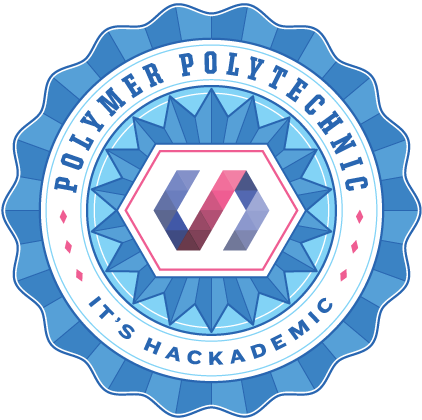
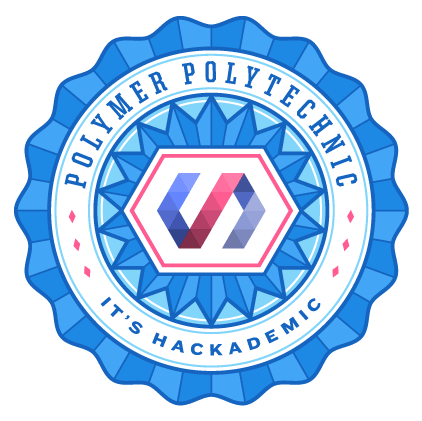
added footer links, updated badge, register link, and date

diff --git a/static/css/main.css b/static/css/main.css
@@ -1,1 +1,1 @@
-body{margin:0;background-color:#eff2f3;background-image:url("../images/bg1.png");background-size:30px 17.25px;background-position:center}header{text-align:center;margin-bottom:48px}header a{background-color:#fff;display:inline-block;box-shadow:0px 0px 8px rgba(0,0,0,0.1)}header a:hover .polymer-logo{opacity:0.7}header a .polymer-logo{display:block;width:90px;padding:12px;-webkit-transition:opacity 100ms;transition:opacity 100ms}.badge-section{position:relative;background-color:#445963;background-image:url("../images/bg2.png");background-size:cover;text-align:center}.badge-section::before,.badge-section::after{content:"";position:absolute;left:0;right:0;border-bottom:1px solid #fff}.badge-section::before{top:8px}.badge-section::after{bottom:8px}#badge{width:280px;height:auto;margin:48px 0}.date-section{margin-top:56px;text-align:center}.date-section span{display:inline-block;background-color:#41a4f4;box-shadow:0px 0px 8px rgba(0,0,0,0.1)}.date-section span .date{padding:16px;display:block;width:360px}footer{margin-top:48px;text-align:center;background:#fff;box-shadow:0px 0px 8px rgba(0,0,0,0.1)}footer ul{list-style:none;margin:0}footer li{display:inline-block;padding:24px;line-height:27px;vertical-align:middle}footer li a{display:block;width:27px;height:27px;position:relative}footer li a:hover img{opacity:0.7}footer li img{position:absolute;top:50%;left:50%;-webkit-transform:translate(-50%, -50%);-ms-transform:translate(-50%, -50%);transform:translate(-50%, -50%);-webkit-transition:opacity 100ms;transition:opacity 100ms}@media (min-width: 1480px){header a .polymer-logo{width:120px;padding:12px}#badge{width:360px;margin:72px 0}.date-section{margin-top:72px}.date-section span .date{padding:24px;width:480px}footer li{padding:24px;line-height:40px}footer li a{width:40px;height:40px}}@media (min-height: 720px){footer{position:fixed;bottom:0;left:0;right:0}}@media (-webkit-min-device-pixel-ratio: 1.25), (min-resolution: 120dppx){.badge-section{background-image:url("../images/bg2@2x.png");background-size:cover}}
+body{margin:0;background-color:#eff2f3;background-image:url("../images/bg1.png");background-size:30px 17.25px;background-position:center}header{text-align:center;margin-bottom:48px}header a{background-color:white;display:inline-block;box-shadow:0px 0px 8px rgba(0,0,0,0.1)}header a:hover .polymer-logo{opacity:0.7}header a .polymer-logo{display:block;width:90px;padding:12px;-webkit-transition:opacity 100ms;transition:opacity 100ms}.badge-section{position:relative;background-color:#445963;background-image:url("../images/bg2.png");background-size:cover;background-position:center;text-align:center}.badge-section::before,.badge-section::after{content:"";position:absolute;left:0;right:0;border-bottom:1px solid #fff}.badge-section::before{top:8px}.badge-section::after{bottom:8px}#badge{width:280px;height:auto;margin:48px 0 12px;position:relative;z-index:2}.badge-shadow{display:block;width:240px;height:240px;position:absolute;top:68px;left:50%;margin-left:-120px;border-radius:50%;box-shadow:0px 0px 20px 10px rgba(0,0,0,0.2);z-index:1}.date{margin:0 auto;padding-bottom:48px;display:block;width:200px;height:auto}.register-section{margin-top:56px;text-align:center}.register-section a{display:inline-block;background-color:#41a4f4;box-shadow:0px 0px 8px rgba(0,0,0,0.1)}.register-section a:hover{background-color:#5eb2f6}.register-section a .register{padding:24px 36px;display:block;width:280px}footer{margin-top:48px;text-align:center;background:white;box-shadow:0px 0px 8px rgba(0,0,0,0.1)}footer ul{list-style:none;margin:0}footer li{display:inline-block;padding:24px;line-height:27px;vertical-align:middle}footer li a{display:block;width:27px;height:27px;position:relative}footer li a:hover img{opacity:0.7}footer li img{position:absolute;top:50%;left:50%;-webkit-transform:translate(-50%, -50%);-ms-transform:translate(-50%, -50%);transform:translate(-50%, -50%);-webkit-transition:opacity 100ms;transition:opacity 100ms}@media (min-width: 1480px){header a .polymer-logo{width:120px;padding:12px}#badge{width:360px;margin:72px 0 24px}.badge-shadow{width:310px;height:310px;top:100px;margin-left:-155px}.date{padding-bottom:72px;width:300px}.register-section{margin-top:72px}.register-section a .register{padding:24px 48px;width:380px}footer li{padding:24px;line-height:40px}footer li a{width:40px;height:40px}}@media (min-height: 720px){footer{position:fixed;bottom:0;left:0;right:0}}@media (-webkit-min-device-pixel-ratio: 1.25), (min-resolution: 120dppx){.badge-section{background-image:url("../images/bg2@2x.png");background-size:cover}}

diff --git a/src/main.scss b/src/main.scss
@@ -1,0 +1,202 @@
+@mixin box-shadow() {
+  box-shadow: 0px 0px 8px rgba(0,0,0,0.1);
+}
+
+$body-bg: #eff2f3;
+$badge-bg: #445963;
+$date-bg: #41a4f4;
+$white: #fff;
+
+body {
+  margin: 0;
+  background-color: $body-bg;
+  background-image: url("../images/bg1.png");
+  background-size: 30px 17.25px;
+  background-position: center;
+}
+
+header {
+  text-align: center;
+  margin-bottom: 48px;
+  a {
+    background-color: white;
+    display: inline-block;
+    @include box-shadow;
+    &:hover {
+      .polymer-logo {
+        opacity: 0.7;
+      }
+    }
+    .polymer-logo {
+      display: block;
+      width: 90px;
+      padding: 12px;
+      transition: opacity 100ms;
+    }
+  }
+}
+
+.badge-section {
+  position: relative;
+  background-color: $badge-bg;
+  background-image: url("../images/bg2.png");
+  background-size: cover;
+  background-position: center;
+  text-align: center;
+  &::before, &::after {
+    content: "";
+    position: absolute;
+    left: 0;
+    right: 0;
+    border-bottom: 1px solid $white;
+  }
+  &::before {
+    top: 8px;
+  }
+  &::after {
+    bottom: 8px;
+  }
+}
+
+#badge {
+  width: 280px;
+  height: auto;
+  margin: 48px 0 12px;
+  position: relative;
+  z-index: 2;
+}
+
+.badge-shadow {
+  display: block;
+  width: 240px;
+  height: 240px;
+  position: absolute;
+  top: 68px;
+  left: 50%;
+  margin-left: -120px;
+  border-radius: 50%;
+  box-shadow: 0px 0px 20px 10px rgba(0,0,0,0.2);
+  z-index: 1;
+}
+
+.date {
+  margin: 0 auto;
+  padding-bottom:48px;
+  display: block;
+  width: 200px;
+  height: auto;
+}
+
+.register-section {
+  margin-top: 56px;
+  text-align: center;
+  a {
+    display: inline-block;
+    background-color: $date-bg;
+    @include box-shadow;
+    &:hover {
+      background-color: lighten($date-bg, 6%);
+    }
+    .register {
+      padding: 24px 36px;
+      display: block;
+      width: 280px;
+    }
+  }
+}
+
+footer {
+  margin-top: 48px;
+  text-align: center;
+  background: white;
+  @include box-shadow;
+  ul {
+    list-style: none;
+    margin: 0;
+  }
+  li {
+    display: inline-block;
+    padding: 24px;
+    line-height: 27px;
+    vertical-align: middle;
+    a {
+      display: block;
+      width: 27px;
+      height: 27px;
+      position: relative;
+      &:hover {
+        img {
+          opacity: 0.7;
+        }
+      }
+    }
+    img {
+      position: absolute;
+      top: 50%;
+      left: 50%;
+      transform: translate(-50%, -50%);
+      transition: opacity 100ms;
+    }
+  }
+}
+
+@media (min-width: 1480px) {
+  header {
+    a {
+      .polymer-logo {
+        width: 120px;
+        padding: 12px;
+      }
+    }
+  }
+  #badge {
+    width: 360px;
+    margin: 72px 0 24px;
+  }
+  .badge-shadow {
+    width: 310px;
+    height: 310px;
+    top: 100px;
+    margin-left: -155px;
+  }
+
+  .date {
+    padding-bottom: 72px;
+    width: 300px;
+  }
+  .register-section {
+    margin-top: 72px;
+    a {
+      .register {
+        padding: 24px 48px;
+        width: 380px;
+      }
+    }
+  }
+  footer {
+    li {
+      padding: 24px;
+      line-height: 40px;
+      a {
+        width: 40px;
+        height: 40px;
+      }
+    }
+  }
+}
+
+@media (min-height: 720px) {
+  footer {
+    position: fixed;
+    bottom: 0;
+    left: 0;
+    right: 0;
+  }
+}
+
+@media (-webkit-min-device-pixel-ratio: 1.25), (min-resolution: 120dppx) {
+  .badge-section {
+    background-image: url("../images/bg2@2x.png");
+    background-size: cover;
+  }
+}

diff --git a/static/index.html b/static/index.html
@@ -6,6 +6,7 @@
     <meta name="viewport" content="width=device-width, initial-scale=1.0">
     <meta name="apple-mobile-web-app-capable" content="yes">
     <meta name="mobile-web-app-capable" content="yes">
+    <link rel="icon" type="image/icon" href="/favicon.ico">
     <link rel="stylesheet" href="css/main.css">
   </head>
   <body>
@@ -16,20 +17,22 @@
     <main>
       <section class="badge-section">
         <img id="badge" src="images/badge.png" height="422" width="420" />
+        <span class="badge-shadow"></span>
+        <img class="date" src="images/date.svg" />
       </section>
-      <section class="date-section">
-        <span>
-          <img class="date" src="images/date.svg" />
-        </span>
+      <section class="register-section">
+        <a href="https://docs.google.com/a/google.com/forms/d/1dgrW9uxeWFQXD1viARC1sv872eMCH4fWncvYr2O2pr8/viewform">
+          <img class="register" src="images/register.svg" />
+        </a>
       </section>
     </main>
 
     <footer>
       <ul>
-        <li><a href="http://gplus.com"><img src="images/gplus.svg"></a></li>
-        <li><a href="http://twitter.com"><img src="images/twitter.svg"></a></li>
-        <li><a href="http://github.com"><img src="images/github.svg"></a></li>
-        <li><a href="http://html.com"><img src="images/html.svg"></a></li>
+        <li><a href="https://plus.google.com/+PolymerProject"><img src="images/gplus.svg"></a></li>
+        <li><a href="http://twitter.com/polymer"><img src="images/twitter.svg"></a></li>
+        <li><a href="http://github.com/polymer/polymer"><img src="images/github.svg"></a></li>
+        <li><a href="http://polymer-project.org/"><img src="images/html.svg"></a></li>
       </ul>
     </footer>
 

diff --git a/static/js/app.js b/static/js/app.js
@@ -1,1 +1,1 @@
-(function(){var e,t;e=window.devicePixelRatio>1,e&&(t=document.getElementById("badge").getAttribute("src"),document.getElementById("badge").setAttribute("src",t.replace(".png","@2x.png")))}).call(this);
+var retina=window.devicePixelRatio>1;if(retina){var src=document.getElementById("badge").getAttribute("src");document.getElementById("badge").setAttribute("src",src.replace(".png","@2x.png"))}

diff --git a/src/app.js b/src/app.js
@@ -1,0 +1,5 @@
+var retina = window.devicePixelRatio > 1;
+if (retina) {
+  var src = document.getElementById('badge').getAttribute('src');
+  document.getElementById('badge').setAttribute('src', src.replace('.png', '@2x.png'));
+}
